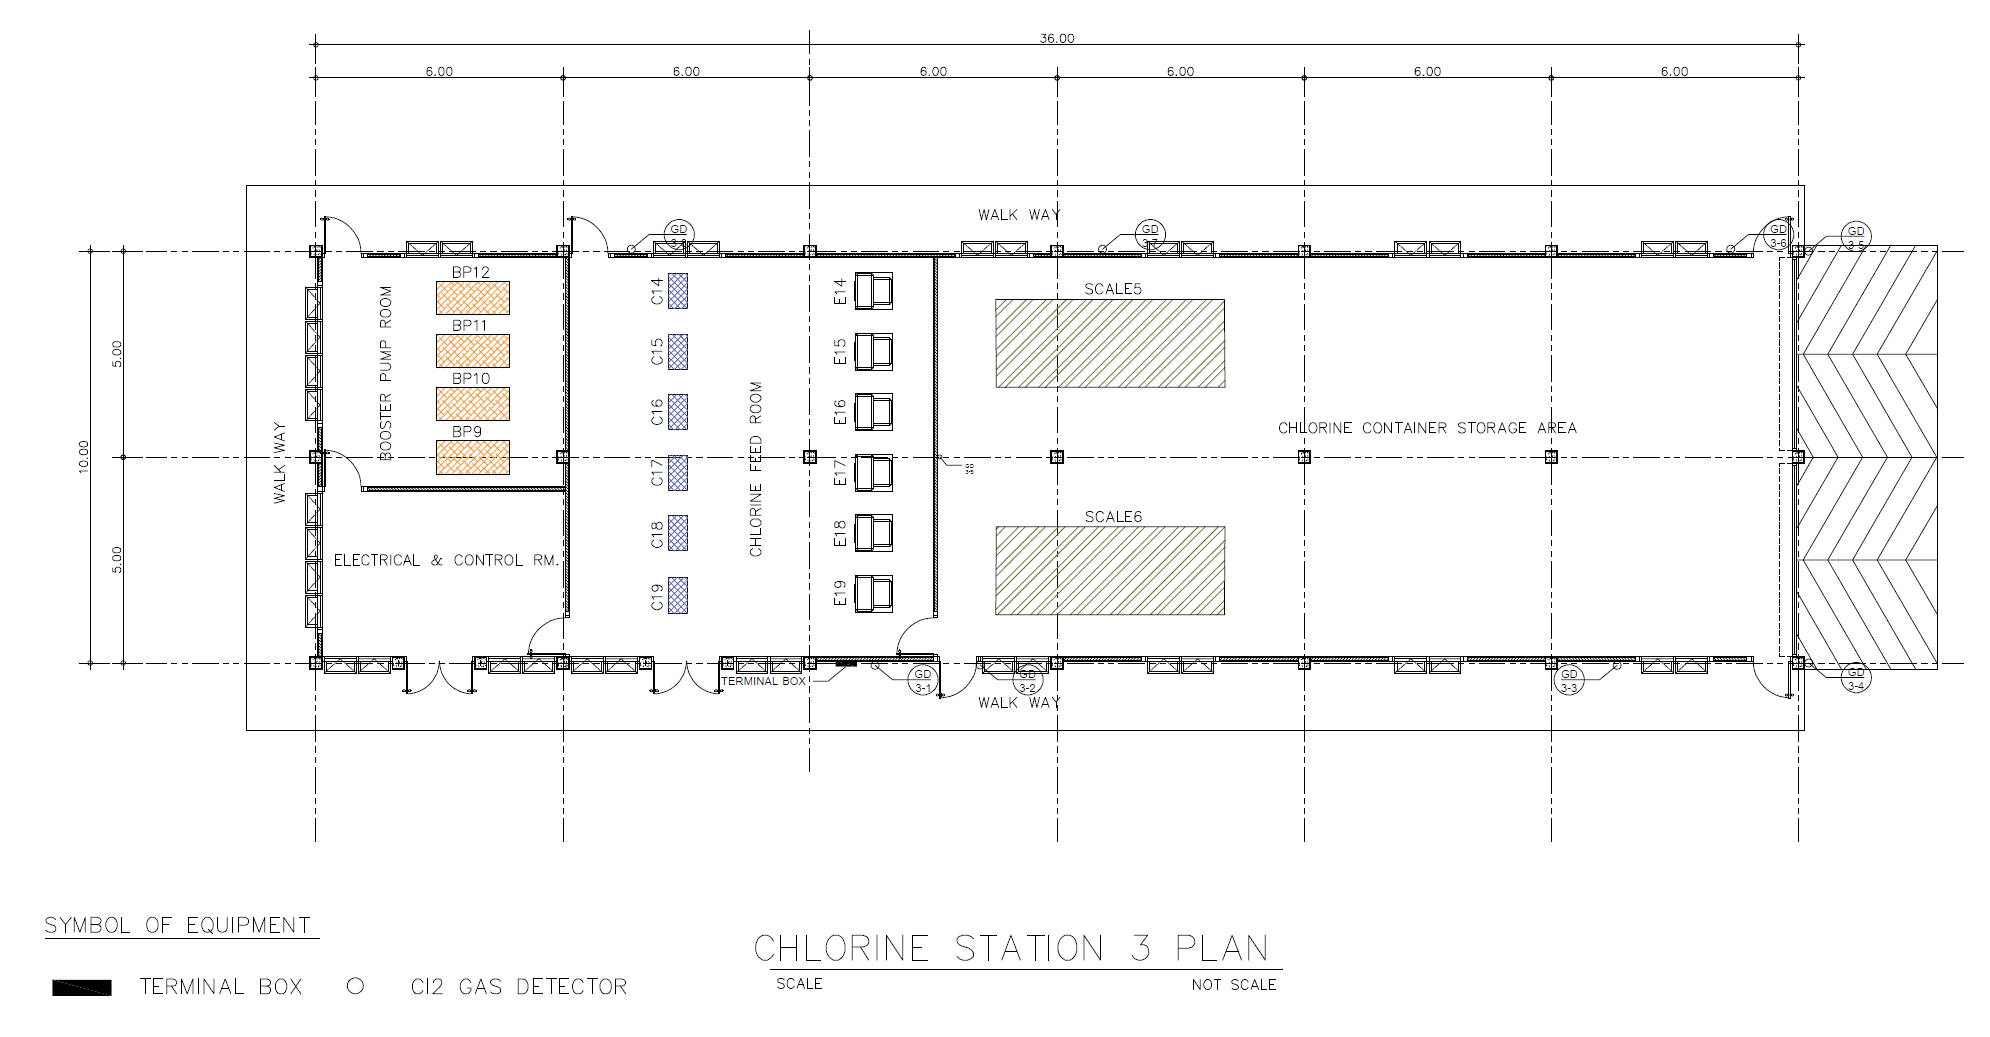
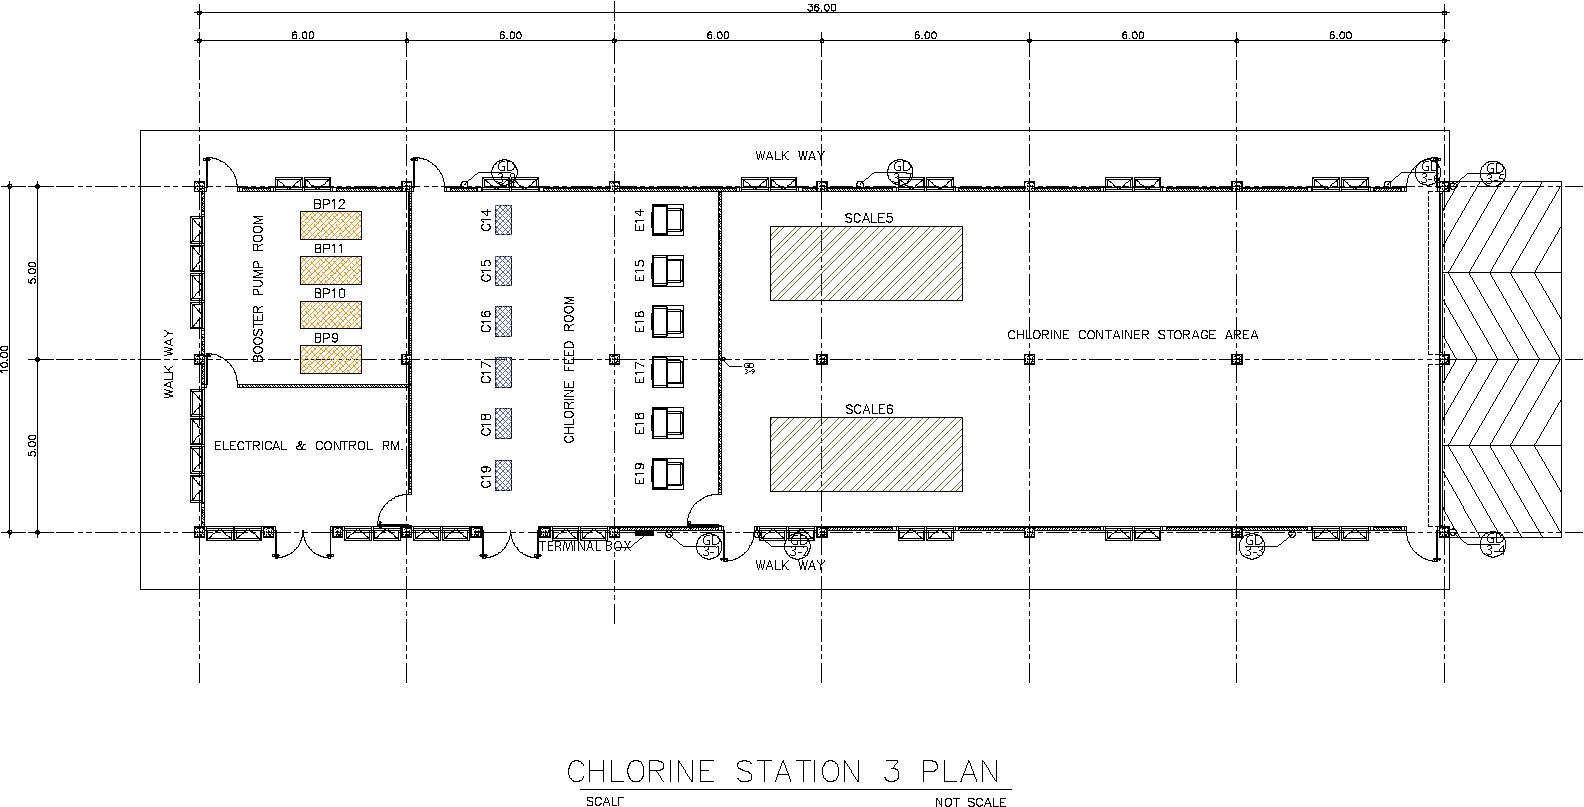
update MWA Building Pictures and Sensor Position

diff --git a/src/Presentation/Components/Building/Station1/View.tsx b/src/Presentation/Components/Building/Station1/View.tsx
@@ -24,7 +24,7 @@ const Station1: React.FC<Props> = ({
 	gd17 = 'default',
 	gd18 = 'default',
 }) => {
-	const buildingSrc = isDark ? '/media/maps/dark-building-1.png' : '/media/maps/dark-building-1.png'
+	const buildingSrc = isDark ? '/media/maps/dark-building-1.png' : '/media/maps/building-1.png'
 
 	return (
 		<React.Fragment>
@@ -36,7 +36,7 @@ const Station1: React.FC<Props> = ({
 					<div
 						id="gd15"
 						className="cursor-pointer position-absolute"
-						style={{ zIndex: 100, top: '8.5%', left: '16%' }}>
+						style={{ zIndex: 100, top: '19.5%', left: '15.5%' }}>
 						<img
 							src={`/media/maps/${translateSensorColor(gd15)}-time.svg`}
 							alt="GD 1-5 Sensor"
@@ -49,7 +49,7 @@ const Station1: React.FC<Props> = ({
 					<div
 						id="gd16"
 						className="cursor-pointer position-absolute"
-						style={{ zIndex: 100, top: '8.5%', left: '33.17%' }}>
+						style={{ zIndex: 100, top: '19.5%', left: '32.5%' }}>
 						<img
 							src={`/media/maps/${translateSensorColor(gd16)}-time.svg`}
 							alt="GD 1-6 Sensor"
@@ -62,7 +62,7 @@ const Station1: React.FC<Props> = ({
 					<div
 						id="gd17"
 						className="cursor-pointer position-absolute"
-						style={{ zIndex: 100, top: '10%', left: '91.4%' }}>
+						style={{ zIndex: 100, top: '21%', left: '91%' }}>
 						<img
 							src={`/media/maps/${translateSensorColor(gd17)}-time.svg`}
 							alt="GD 1-7 Sensor"
@@ -77,7 +77,7 @@ const Station1: React.FC<Props> = ({
 					<div
 						id="gd18"
 						className="cursor-pointer position-absolute"
-						style={{ zIndex: 100, top: '38.2%', left: '26.4%' }}>
+						style={{ zIndex: 100, top: '40.5%', left: '26%' }}>
 						<img
 							src={`/media/maps/${translateSensorColor(gd18)}-time.svg`}
 							alt="GD 1-8 Sensor"
@@ -92,7 +92,7 @@ const Station1: React.FC<Props> = ({
 					<div
 						id="gd14"
 						className="cursor-pointer position-absolute"
-						style={{ zIndex: 100, top: '72.7%', left: '16.7%' }}>
+						style={{ zIndex: 100, top: '64.5%', left: '16%' }}>
 						<img
 							src={`/media/maps/${translateSensorColor(gd14)}-time.svg`}
 							alt="GD 1-4 Sensor"
@@ -105,7 +105,7 @@ const Station1: React.FC<Props> = ({
 					<div
 						id="gd13"
 						className="cursor-pointer position-absolute"
-						style={{ zIndex: 100, top: '72.7%', left: '38.2%' }}>
+						style={{ zIndex: 100, top: '64.5%', left: '38%' }}>
 						<img
 							src={`/media/maps/${translateSensorColor(gd13)}-time.svg`}
 							alt="GD 1-3 Sensor"
@@ -118,7 +118,7 @@ const Station1: React.FC<Props> = ({
 					<div
 						id="gd12"
 						className="cursor-pointer position-absolute"
-						style={{ zIndex: 100, top: '72.7%', left: '68.5%' }}>
+						style={{ zIndex: 100, top: '64.5%', left: '67.7%' }}>
 						<img
 							src={`/media/maps/${translateSensorColor(gd12)}-time.svg`}
 							alt="GD 1-2 Sensor"
@@ -131,7 +131,7 @@ const Station1: React.FC<Props> = ({
 					<div
 						id="gd11"
 						className="cursor-pointer position-absolute"
-						style={{ zIndex: 100, top: '72.7%', left: '89.6%' }}>
+						style={{ zIndex: 100, top: '64.5%', left: '88.8%' }}>
 						<img
 							src={`/media/maps/${translateSensorColor(gd11)}-time.svg`}
 							alt="GD 1-1 Sensor"

diff --git a/src/Presentation/Components/Building/Station3/View.tsx b/src/Presentation/Components/Building/Station3/View.tsx
@@ -24,7 +24,7 @@ const Station3: React.FC<Props> = ({
 	gd37 = 'default',
 	gd38 = 'default',
 }) => {
-	const bulidingSrc = isDark ? '/media/maps/building-3.png' : '/media/maps/building-3.png'
+	const bulidingSrc = isDark ? '/media/maps/dark-building-3.png' : '/media/maps/building-3.png'
 
 	return (
 		<React.Fragment>
@@ -36,7 +36,7 @@ const Station3: React.FC<Props> = ({
 					<div
 						id="gd38"
 						className="cursor-pointer position-absolute"
-						style={{ zIndex: 100, top: '21%', left: '32.8%' }}>
+						style={{ zIndex: 100, top: '19%', left: '30%' }}>
 						<img
 							src={`/media/maps/${translateSensorColor(gd38)}-time.svg`}
 							alt="GD 3-8 Sensor"
@@ -49,7 +49,7 @@ const Station3: React.FC<Props> = ({
 					<div
 						id="gd37"
 						className="cursor-pointer position-absolute"
-						style={{ zIndex: 100, top: '21%', left: '56.5%' }}>
+						style={{ zIndex: 100, top: '19%', left: '55.5%' }}>
 						<img
 							src={`/media/maps/${translateSensorColor(gd37)}-time.svg`}
 							alt="GD 3-7 Sensor"
@@ -62,7 +62,7 @@ const Station3: React.FC<Props> = ({
 					<div
 						id="gd36"
 						className="cursor-pointer position-absolute"
-						style={{ zIndex: 100, top: '21%', left: '88%' }}>
+						style={{ zIndex: 100, top: '19%', left: '88.5%' }}>
 						<img
 							src={`/media/maps/${translateSensorColor(gd36)}-time.svg`}
 							alt="GD 3-6 Sensor"
@@ -75,7 +75,7 @@ const Station3: React.FC<Props> = ({
 					<div
 						id="gd35"
 						className="cursor-pointer position-absolute"
-						style={{ zIndex: 100, top: '21%', left: '92%' }}>
+						style={{ zIndex: 100, top: '19%', left: '92.5%' }}>
 						<img
 							src={`/media/maps/${translateSensorColor(gd35)}-time.svg`}
 							alt="GD 3-5 Sensor"
@@ -90,7 +90,7 @@ const Station3: React.FC<Props> = ({
 					<div
 						id="gd31"
 						className="cursor-pointer position-absolute"
-						style={{ zIndex: 100, top: '63.5%', left: '45%' }}>
+						style={{ zIndex: 100, top: '65.5%', left: '43%' }}>
 						<img
 							src={`/media/maps/${translateSensorColor(gd31)}-time.svg`}
 							alt="GD 3-1 Sensor"
@@ -103,7 +103,7 @@ const Station3: React.FC<Props> = ({
 					<div
 						id="gd32"
 						className="cursor-pointer position-absolute"
-						style={{ zIndex: 100, top: '63.5%', left: '50.5%' }}>
+						style={{ zIndex: 100, top: '65.5%', left: '49%' }}>
 						<img
 							src={`/media/maps/${translateSensorColor(gd32)}-time.svg`}
 							alt="GD 3-2 Sensor"
@@ -116,7 +116,7 @@ const Station3: React.FC<Props> = ({
 					<div
 						id="gd33"
 						className="cursor-pointer position-absolute"
-						style={{ zIndex: 100, top: '63.5%', left: '77.5%' }}>
+						style={{ zIndex: 100, top: '65.5%', left: '77.5%' }}>
 						<img
 							src={`/media/maps/${translateSensorColor(gd33)}-time.svg`}
 							alt="GD 3-3 Sensor"
@@ -129,7 +129,7 @@ const Station3: React.FC<Props> = ({
 					<div
 						id="gd34"
 						className="cursor-pointer position-absolute"
-						style={{ zIndex: 100, top: '63.5%', left: '92%' }}>
+						style={{ zIndex: 100, top: '64.8%', left: '92.5%' }}>
 						<img
 							src={`/media/maps/${translateSensorColor(gd34)}-time.svg`}
 							alt="GD 3-4 Sensor"

diff --git a/src/Presentation/Components/Building/Station2/View.tsx b/src/Presentation/Components/Building/Station2/View.tsx
@@ -24,7 +24,7 @@ const Station2: React.FC<Props> = ({
 	gd27 = 'default',
 	gd28 = 'default',
 }) => {
-	const buildingSrc = isDark ? '/media/maps/building-2.png' : '/media/maps/building-2.png'
+	const buildingSrc = isDark ? '/media/maps/dark-building-2.png' : '/media/maps/building-2.png'
 
 	return (
 		<React.Fragment>
@@ -36,7 +36,7 @@ const Station2: React.FC<Props> = ({
 					<div
 						id="gd24"
 						className="cursor-pointer position-absolute"
-						style={{ zIndex: 100, top: '21.5%', left: '11.9%' }}>
+						style={{ zIndex: 100, top: '20.2%', left: '11.5%' }}>
 						<img
 							src={`/media/maps/${translateSensorColor(gd24)}-time.svg`}
 							alt="GD 2-4 Sensor"
@@ -49,7 +49,7 @@ const Station2: React.FC<Props> = ({
 					<div
 						id="gd25"
 						className="cursor-pointer position-absolute"
-						style={{ zIndex: 100, top: '21.5%', left: '27%' }}>
+						style={{ zIndex: 100, top: '20.2%', left: '26.5%' }}>
 						<img
 							src={`/media/maps/${translateSensorColor(gd25)}-time.svg`}
 							alt="GD 2-5 Sensor"
@@ -62,7 +62,7 @@ const Station2: React.FC<Props> = ({
 					<div
 						id="gd26"
 						className="cursor-pointer position-absolute"
-						style={{ zIndex: 100, top: '21.5%', left: '52.5%' }}>
+						style={{ zIndex: 100, top: '20.2%', left: '52.5%' }}>
 						<img
 							src={`/media/maps/${translateSensorColor(gd26)}-time.svg`}
 							alt="GD 2-6 Sensor"
@@ -75,7 +75,7 @@ const Station2: React.FC<Props> = ({
 					<div
 						id="gd27"
 						className="cursor-pointer position-absolute"
-						style={{ zIndex: 100, top: '21.5%', left: '70.5%' }}>
+						style={{ zIndex: 100, top: '20.2%', left: '70.5%' }}>
 						<img
 							src={`/media/maps/${translateSensorColor(gd27)}-time.svg`}
 							alt="GD 2-7 Sensor"
@@ -105,7 +105,7 @@ const Station2: React.FC<Props> = ({
 					<div
 						id="gd23"
 						className="cursor-pointer position-absolute"
-						style={{ zIndex: 100, top: '60.5%', left: '11.9%' }}>
+						style={{ zIndex: 100, top: '64.3%', left: '11%' }}>
 						<img
 							src={`/media/maps/${translateSensorColor(gd23)}-time.svg`}
 							alt="GD 2-3 Sensor"
@@ -118,7 +118,7 @@ const Station2: React.FC<Props> = ({
 					<div
 						id="gd22"
 						className="cursor-pointer position-absolute"
-						style={{ zIndex: 100, top: '60.5%', left: '60%' }}>
+						style={{ zIndex: 100, top: '64.3%', left: '60%' }}>
 						<img
 							src={`/media/maps/${translateSensorColor(gd22)}-time.svg`}
 							alt="GD 2-2 Sensor"
@@ -131,7 +131,7 @@ const Station2: React.FC<Props> = ({
 					<div
 						id="gd21"
 						className="cursor-pointer position-absolute"
-						style={{ zIndex: 100, top: '60.5%', left: '67.5%' }}>
+						style={{ zIndex: 100, top: '64.3%', left: '67.5%' }}>
 						<img
 							src={`/media/maps/${translateSensorColor(gd21)}-time.svg`}
 							alt="GD 2-1 Sensor"

diff --git a/src/Presentation/Views/Dashboard/Building/Components/Stat/View.tsx b/src/Presentation/Views/Dashboard/Building/Components/Stat/View.tsx
@@ -36,20 +36,20 @@ const Stat: React.FC = () => {
 					type="danger"
 					value={data?.totalDanger ?? 0}
 					height={200}
-					infos={[
-						{
-							label: 'แจ้งเหตุ',
-							value: 50,
-						},
-						{
-							label: 'แจ้งเหตุ',
-							value: 50,
-						},
-						{
-							label: 'แจ้งเหตุ',
-							value: 50,
-						},
-					]}
+					// infos={[
+					// 	{
+					// 		label: 'แจ้งเหตุ',
+					// 		value: 50,
+					// 	},
+					// 	{
+					// 		label: 'แจ้งเหตุ',
+					// 		value: 50,
+					// 	},
+					// 	{
+					// 		label: 'แจ้งเหตุ',
+					// 		value: 50,
+					// 	},
+					// ]}
 				/>
 			</div>
 			<div className="col-12 col-lg-4">
@@ -59,20 +59,20 @@ const Stat: React.FC = () => {
 					type="warning"
 					value={data?.totalWarning ?? 0}
 					height={200}
-					infos={[
-						{
-							label: 'แจ้งเหตุ',
-							value: 50,
-						},
-						{
-							label: 'แจ้งเหตุ',
-							value: 50,
-						},
-						{
-							label: 'แจ้งเหตุ',
-							value: 50,
-						},
-					]}
+					// infos={[
+					// 	{
+					// 		label: 'แจ้งเหตุ',
+					// 		value: 50,
+					// 	},
+					// 	{
+					// 		label: 'แจ้งเหตุ',
+					// 		value: 50,
+					// 	},
+					// 	{
+					// 		label: 'แจ้งเหตุ',
+					// 		value: 50,
+					// 	},
+					// ]}
 				/>
 			</div>
 			<div className="col-12 col-lg-4">
@@ -82,20 +82,20 @@ const Stat: React.FC = () => {
 					type="success"
 					value={data?.totalNormal ?? 0}
 					height={200}
-					infos={[
-						{
-							label: 'แจ้งเหตุ',
-							value: 50,
-						},
-						{
-							label: 'แจ้งเหตุ',
-							value: 50,
-						},
-						{
-							label: 'แจ้งเหตุ',
-							value: 50,
-						},
-					]}
+					// infos={[
+					// 	{
+					// 		label: 'แจ้งเหตุ',
+					// 		value: 50,
+					// 	},
+					// 	{
+					// 		label: 'แจ้งเหตุ',
+					// 		value: 50,
+					// 	},
+					// 	{
+					// 		label: 'แจ้งเหตุ',
+					// 		value: 50,
+					// 	},
+					// ]}
 				/>
 			</div>
 		</div>
